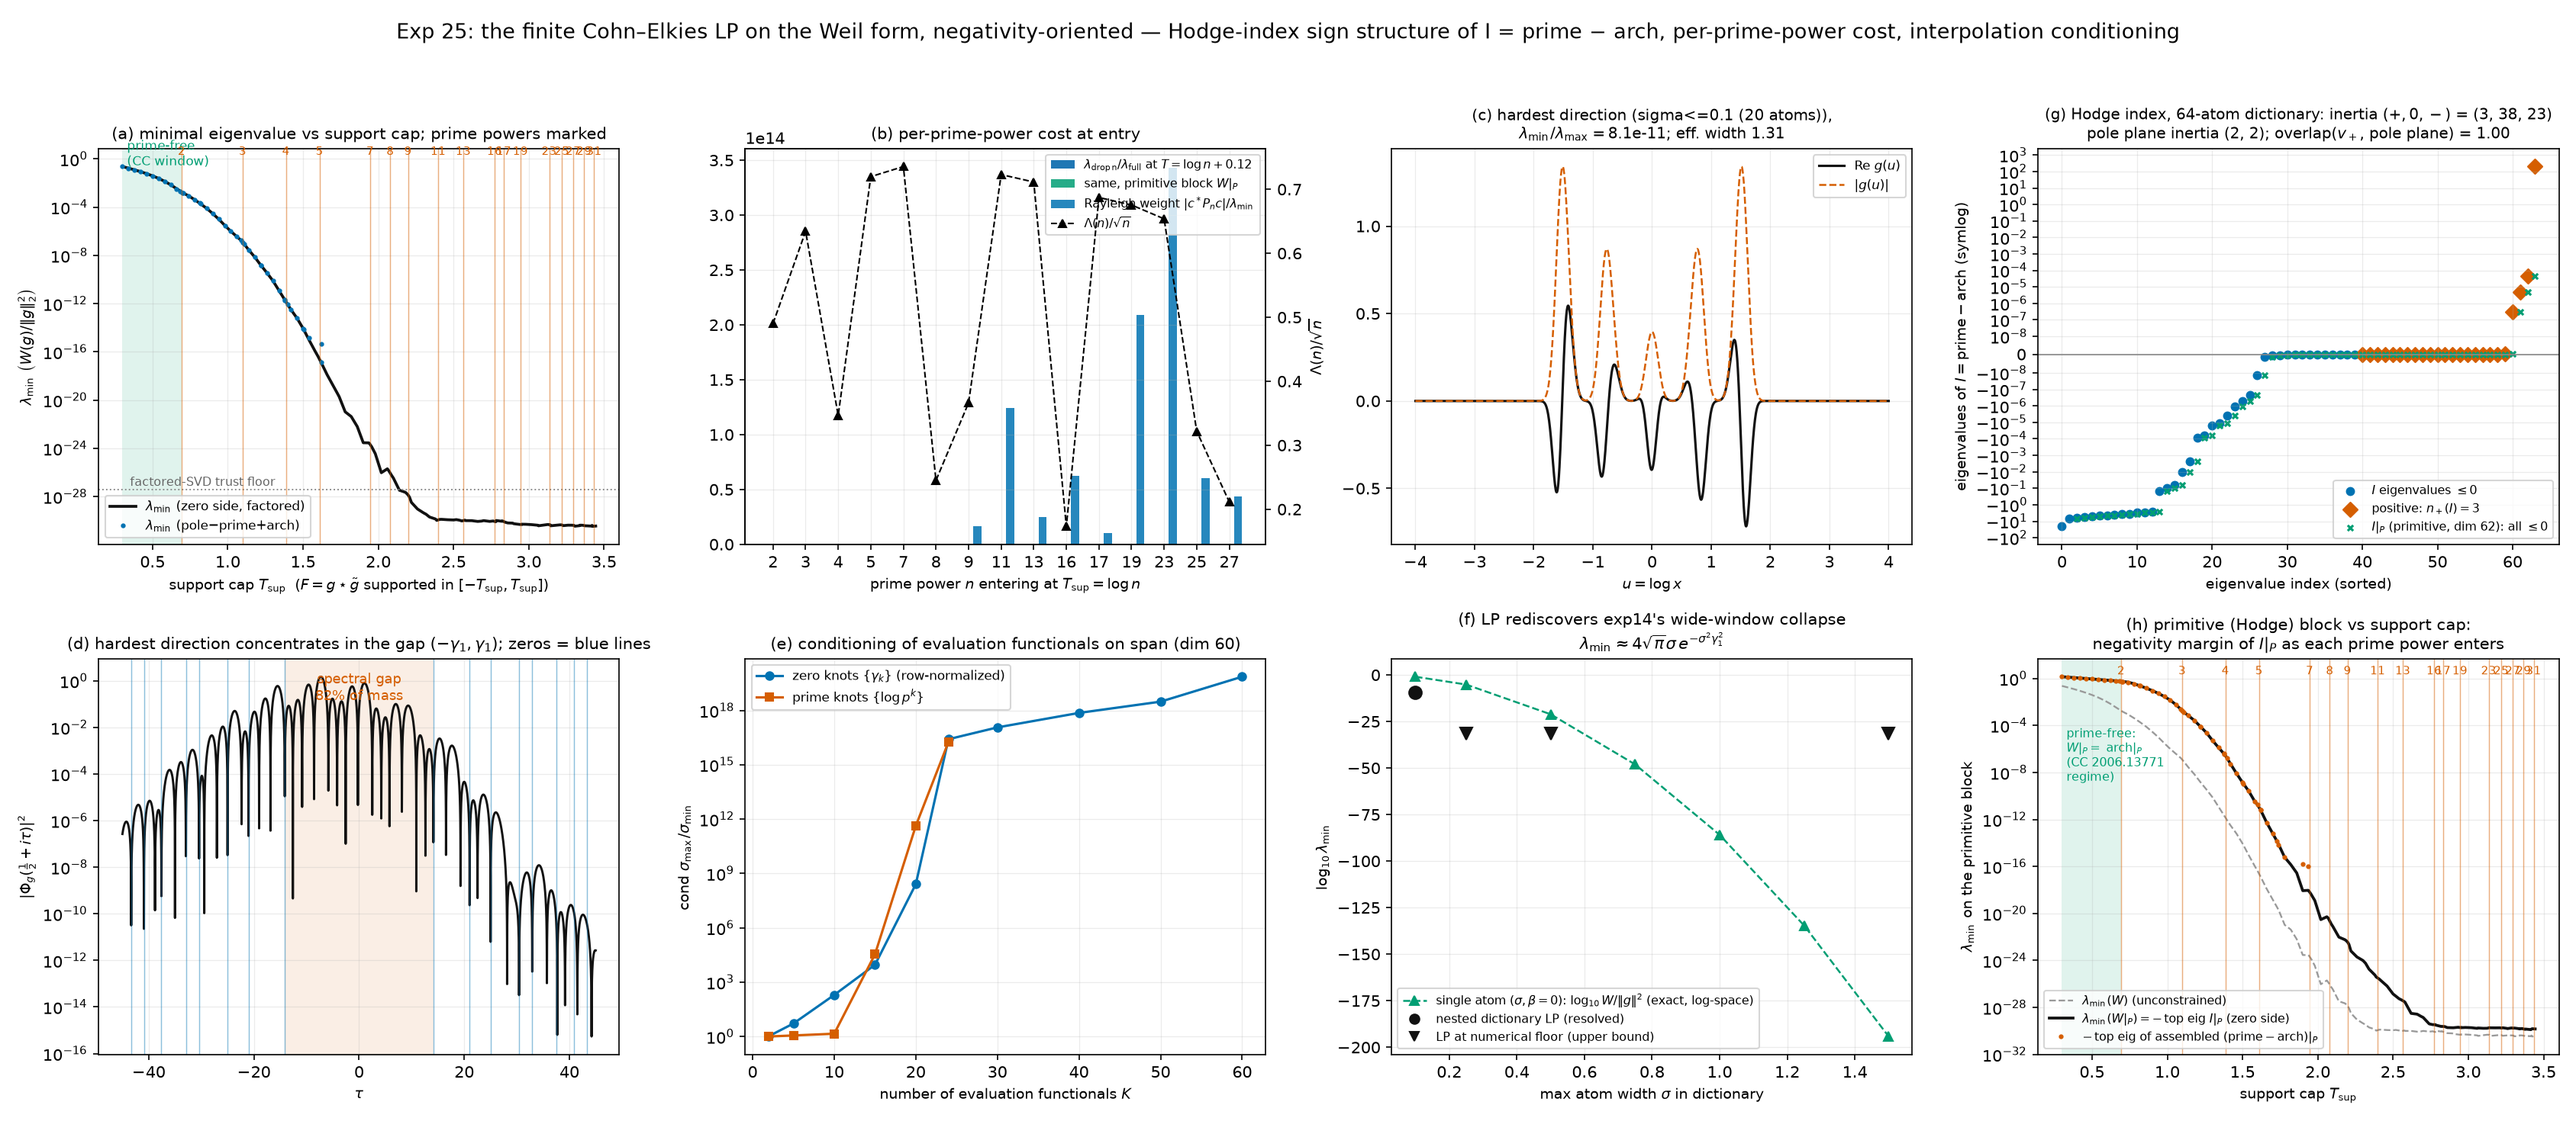
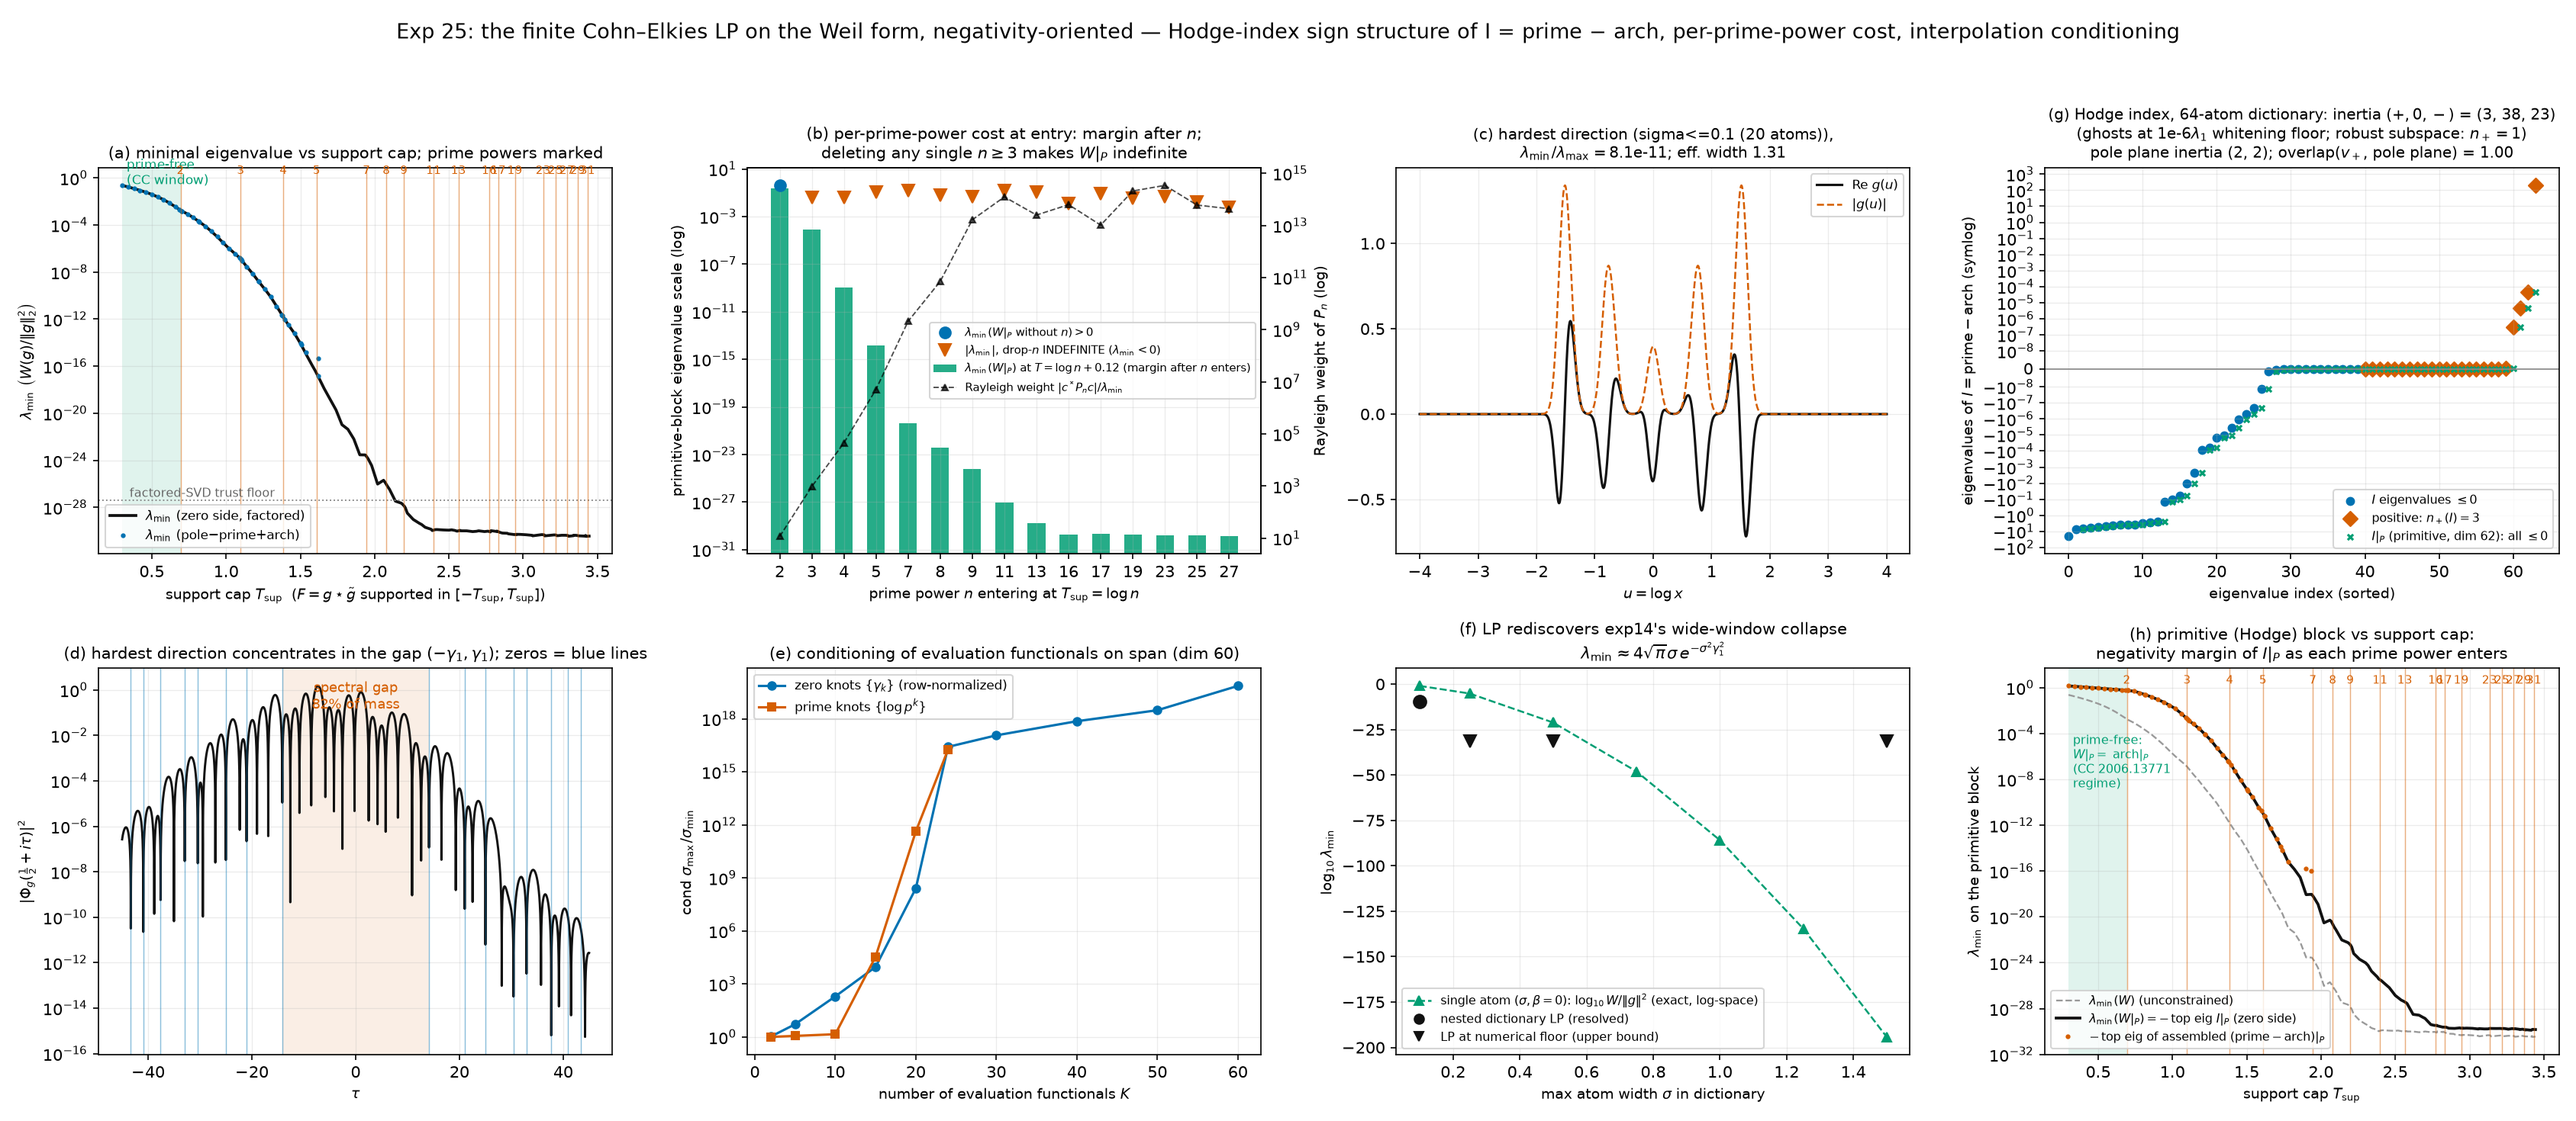
LP negativity landscape landed (fleet-lp2): Hodge index of I = prime - arch measured; exp25 final figure
Completes the ATIYAH S4.2 retarget of the LP-certificate task (exp25 code and
LP_CERT.md text entered history in the fleet WIP snapshots; this commit adds
the final run-8 figure and marks the claim landed). Derived-then-measured:
W|_P trivially PSD under RH; the zero-free arithmetic intersection form
I = prime - arch has exactly one positive (hyperbolic) direction on every
dictionary and I|_P <= 0, with the assembled primitive top eigenvalue
matching the factored zero side (-1.718e-8 both ways where resolved).
Primitive block O(1)-definite in the Connes-Consani window; each prime power
costs 3-7 orders; deleting any single prime power >= 3 makes W|_P indefinite.
Interpolation collocation degenerate past K ~ 20: prolate/Sonin basis needed.

Claude-Session: https://claude.ai/code/session_01QWDKiQtKZWPeWaUzWf2YmX

diff --git a/collab/STATE.md b/collab/STATE.md
@@ -83,7 +83,7 @@ matplotlib python-flint`, run `code/exp*.py` from `code/`. Zeros table:
 | function-field pair field (ATIYAH.md §3 third column: exp26/FF.md, genus-0 Goldbach, Sawin–Shusterman anatomy) | fleet-ff | 2026-08-11 | INTERRUPTED (session limit) at start — fully specified in ATIYAH.md §3; free for Codex |
 | K-theory parity boundary class (spearhead: `KBOUNDARY`, six-term for 0→I→𝒯(ℕ⋊ℕ^×)→Q_ℕ→0, λ-twist class) | fleet-kboundary | 2026-08-11 | LANDED (notes/KBOUNDARY.md): NO-GO PROVED — K_*(𝒯)=(ℤ,0) (CEL orbit analysis), ∂ faithful (K_0(Q)≅K_1(I), K_1(Q)↪K_0(I)), yet α_λ outer with NO class: connectedness of 𝕋^𝒫 kills every twist invariant (Thm 4.2); ℤ/2-crossed = parity core, K = (ℤ^∞,ℤ^∞) = untwisted; reflection charge (Q_ℤ) IS K-visible — contrast; toy prediction confirmed; residues: H_even stage lemma + R(ℤ/2)-module refinement (pre-constrained charge-blind) |
 | circuit ladder: unconditional lambda-orthogonality (BLINDSPOTS blind spot 2, `LENS_CIRCUIT`, exp27) | fleet-circuit | 2026-08-11 | landed — SIEVE_d(S,Q) formalized (periodicity collapse, provable AC⁰-incomparability); Thm 1 (lcm ≤ log^A, all depths, ineffective), Thm 1″ (Green port: dyadic moduli, lcm ≤ e^{c√log X}, EFFECTIVE), Thm 2/2′ (bounded size at moduli ≤ X^{1/2-ε}: pointwise off a circuit-independent bad set + fully averaged — first non-periodic rung), Thm 3 (mixed circuits via W-trick restriction, Lemma R); Prop 5.1: profinite restrictions cannot switch prime-modulus literals; open rung R3 named (bilinear switching / WF-BV_λ beyond 1/2); exp27: 15/15 cells null vs half-normal; CROSS-REVIEWED hostile (msg 0028): Lemma 3.1/Thm 1″ CONFIRMED, Prop 5.1 CONFIRMED-WITH-EDIT, cites resolved, exp27 replicated independently |
-| LP certificate / negativity landscape (ATIYAH §4.2 retarget: primitive-block Hodge-index sign structure, per-prime cost, interpolation conditioning; exp25 completed + run, `LP_CERT`) | fleet-lp2 | 2026-08-11 | active |
+| LP certificate / negativity landscape (ATIYAH §4.2 retarget, `LP_CERT`, exp25) | fleet-lp2 | 2026-08-11 | landed — sign structure derived then measured: W|_P trivially PSD; the zero-free form I = prime−arch has n₊(I)=1 (Hodge index, ghosts resolved on robust subspaces, λ₂/λ₁ ≤ 1e−13) and I|_P ≤ 0 with assembled top = −λ_min(W|_P) matching the zero side (−1.718e−8 both ways where resolved); CC-window primitive margin O(1) (λ/λmax=0.19), per-prime cost 3–7 orders each (3: ×3e−3, 4: ×1.3e−5), leave-one-out INDEFINITE for every n≥3; interpolation collocation infeasible past K≈20 (cond 1e16 at K=24) → prolate/Sonin basis needed; both-ways matrix cross-check ≤ 9.6e−7; msg 0031 |
 | Buchstab-side all-orders ladder (TENSIONS §3 conjecture: depth mirror of K2 II, `BUCHSTAB_LADDER`, exp34_buchladder) | fleet-buchladder | 2026-08-11 | landed, cross-reviewed (msg 0030: §1 derivation + D1 + c₁ independently confirmed; de Bruijn full expansion cited-not-reproved, Perron flag endorsed) — Theorem D1: ζ(s)∏_{p≤y}(1−p^{−s}) = e^{−γ}e^{Ein(λ)}/λ = 1+ω̂(λ) + PNT-error (corollary of K2.2+Mertens; Stieltjes ladder cancels identically; verified to 8·10⁻⁷ at y=10⁷); adjunction ρ̂·(1+ω̂)=1/s = microscopic unique factorization; interval ladder c_k(u)=(−u)^kω^{(k)}(u)/ω(u), c₁(u)=1−ω(u−1)/ω(u), proven divergent (li series at u<2) hence NOT zeta-Laurent; sieve to 10⁸ + machine-precision model ladder concordant |
 | cut-norm RH / exact regularity (BLINDSPOTS blind spot 1, `LENS_REGULARITY`, exp36_cutnorm) | fleet-graphon | 2026-08-11 | landed — Thm 1: interval cut norm of Λ♭⊗Λ♭ = D_Q(X)², exponent = 2Θ, RH ⟺ ≪X^{1+ε} (proof one page from Thm C machinery); Lemma 2: measurable cut norm degenerates to (1+o(1))X² (any rank-one signed array ≥ ‖f‖₁²/4 — graphon quasirandomness verbatim impossible); Prop 3: level-q Bohr cuts ⟺ GRH mod q (test-family ↔ L-function dictionary); Thm 2: Λ = Λ♯_Q + Λ♭_Q is an EXACT arithmetic regularity decomposition (no small-L² third term; contrast Green/Green–Tao soft + tower); honesty Props 4–5: fixed-Q flat part NOT phase-uniform, growing Q = circle method; Prop 6 counting lemma (Thm C in regularity clothing); Props 7–8: fixed-N binary slice controlled by NO U^k (odd-phase example) and no magnitude-only bound beats Parseval floor N log N > main N — the wall relocated, not solved; exp36: D/√X ≈ 0.98 flat, meas-cut/X = 0.9335 vs predicted 0.938 — CROSS-REVIEWED by Claude Fable (msg 0029): Lemma 1.1 CONFIRMED (independent re-derivation + 62-progression numeric check incl. non-coprime residues, exp37); Prop 8 CONFIRMED-WITH-EDIT (sharp as formalized; Fejér–Riesz zero-flip scope remark added); Green/GT contrast CONFIRMED-WITH-EDIT ("in the sense of"→"patterned on" struck+marked, Gr05/GT10 attribution split, abstracts source-checked); exp36 numerics CONFIRMED (digit-exact independent replication at X≤10^6, code/exp37_cf_review36.py); nothing refuted |
 | toy presheaf obstruction + QI translation (UNIFICATION §3 Machines 1+2: `TOY_OBSTRUCTION`, exp36_toy) | fleet-toy | 2026-08-11 | landed — VERDICT: annihilation, not obstruction. J_{2k−1} = (1+z)/2 is exactly the local twirl idempotent (parity bit = fair coin uniquely at p=2k−1 ⟹ zero bonding map); all obstruction receptacles vanish structurally (ℚ/ℤ-2 towers ML ⟹ lim¹=0; clopen partitions cofinal ⟹ Čech H^{≥1}=0 ∀ coefficients; charge torsor explicitly trivial); integral lim¹ ≠ 0 but identical for k=5 (9 composite) ⟹ not localized at the parity zero. 33/33 exact checks. K-prediction lodged: ∂[λ-twist]=0 (interface in TOY_OBSTRUCTION §5, awaiting KBOUNDARY). QI: BRS dictionary + Import Q1 (3^{−N} heat-separation bound derived; RH-precision ≪ discrimination threshold ⟹ tomography can't certify rigidity) + Import Q2 (open: polynomial homometric repulsion of the primes) appended to UNIFICATION §3 |
